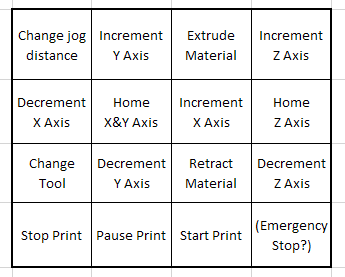
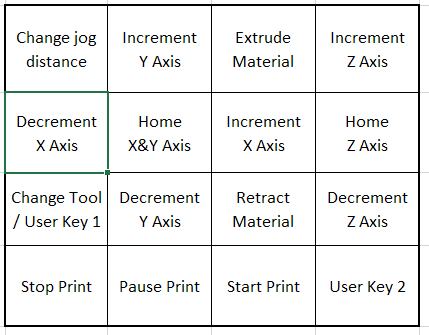
Updated Documentation

diff --git a/README.md b/README.md
@@ -14,6 +14,7 @@ OctoRemote consists of two components, the Octoprint plugin and an arduino based
 * Start/Resume Print
 * Select Extruder
 * Select movement distance (4 options)
+* User programmable keys Supporting custom GCODE and OctoPrint Scripting
 
 ## Setup
 
@@ -48,6 +49,14 @@ If you stick to the recommended schematic you will end up with a key assignment 
 
 ![Alt text](/doku/Keypad.PNG)
 
-In the future there will also be a custom made PCB which includes all necessary parts and uses cherry mx switches for the keys. The device will still be compatible with the Arduino IDE for easy upgrading and hacking. Development of the PCB has not yet started but is scheduled for mid of april.
+Please Note: User Key 1 is only available when the Tool/Extruder count is 1. Otherwise the key is used to switch between extruders.
+
+In the future there will also be a custom made PCB which includes all necessary parts and uses cherry mx switches for the keys. If you are interested in getting a custom OctoRemote Board
+feel free to contact me.
+The device is still be compatible with the Arduino IDE for easy upgrading and hacking. Development of the Controller is in pre-production state and will be heading for Kickstarter soon.
+
+![Alt text](/doku/octoremote.jpg)
 
 Regardless of the type of the used hardware, programming is done using the Arduino IDE and the sourcecodes from the arduino/OctoRemote/ folder.
+
+
